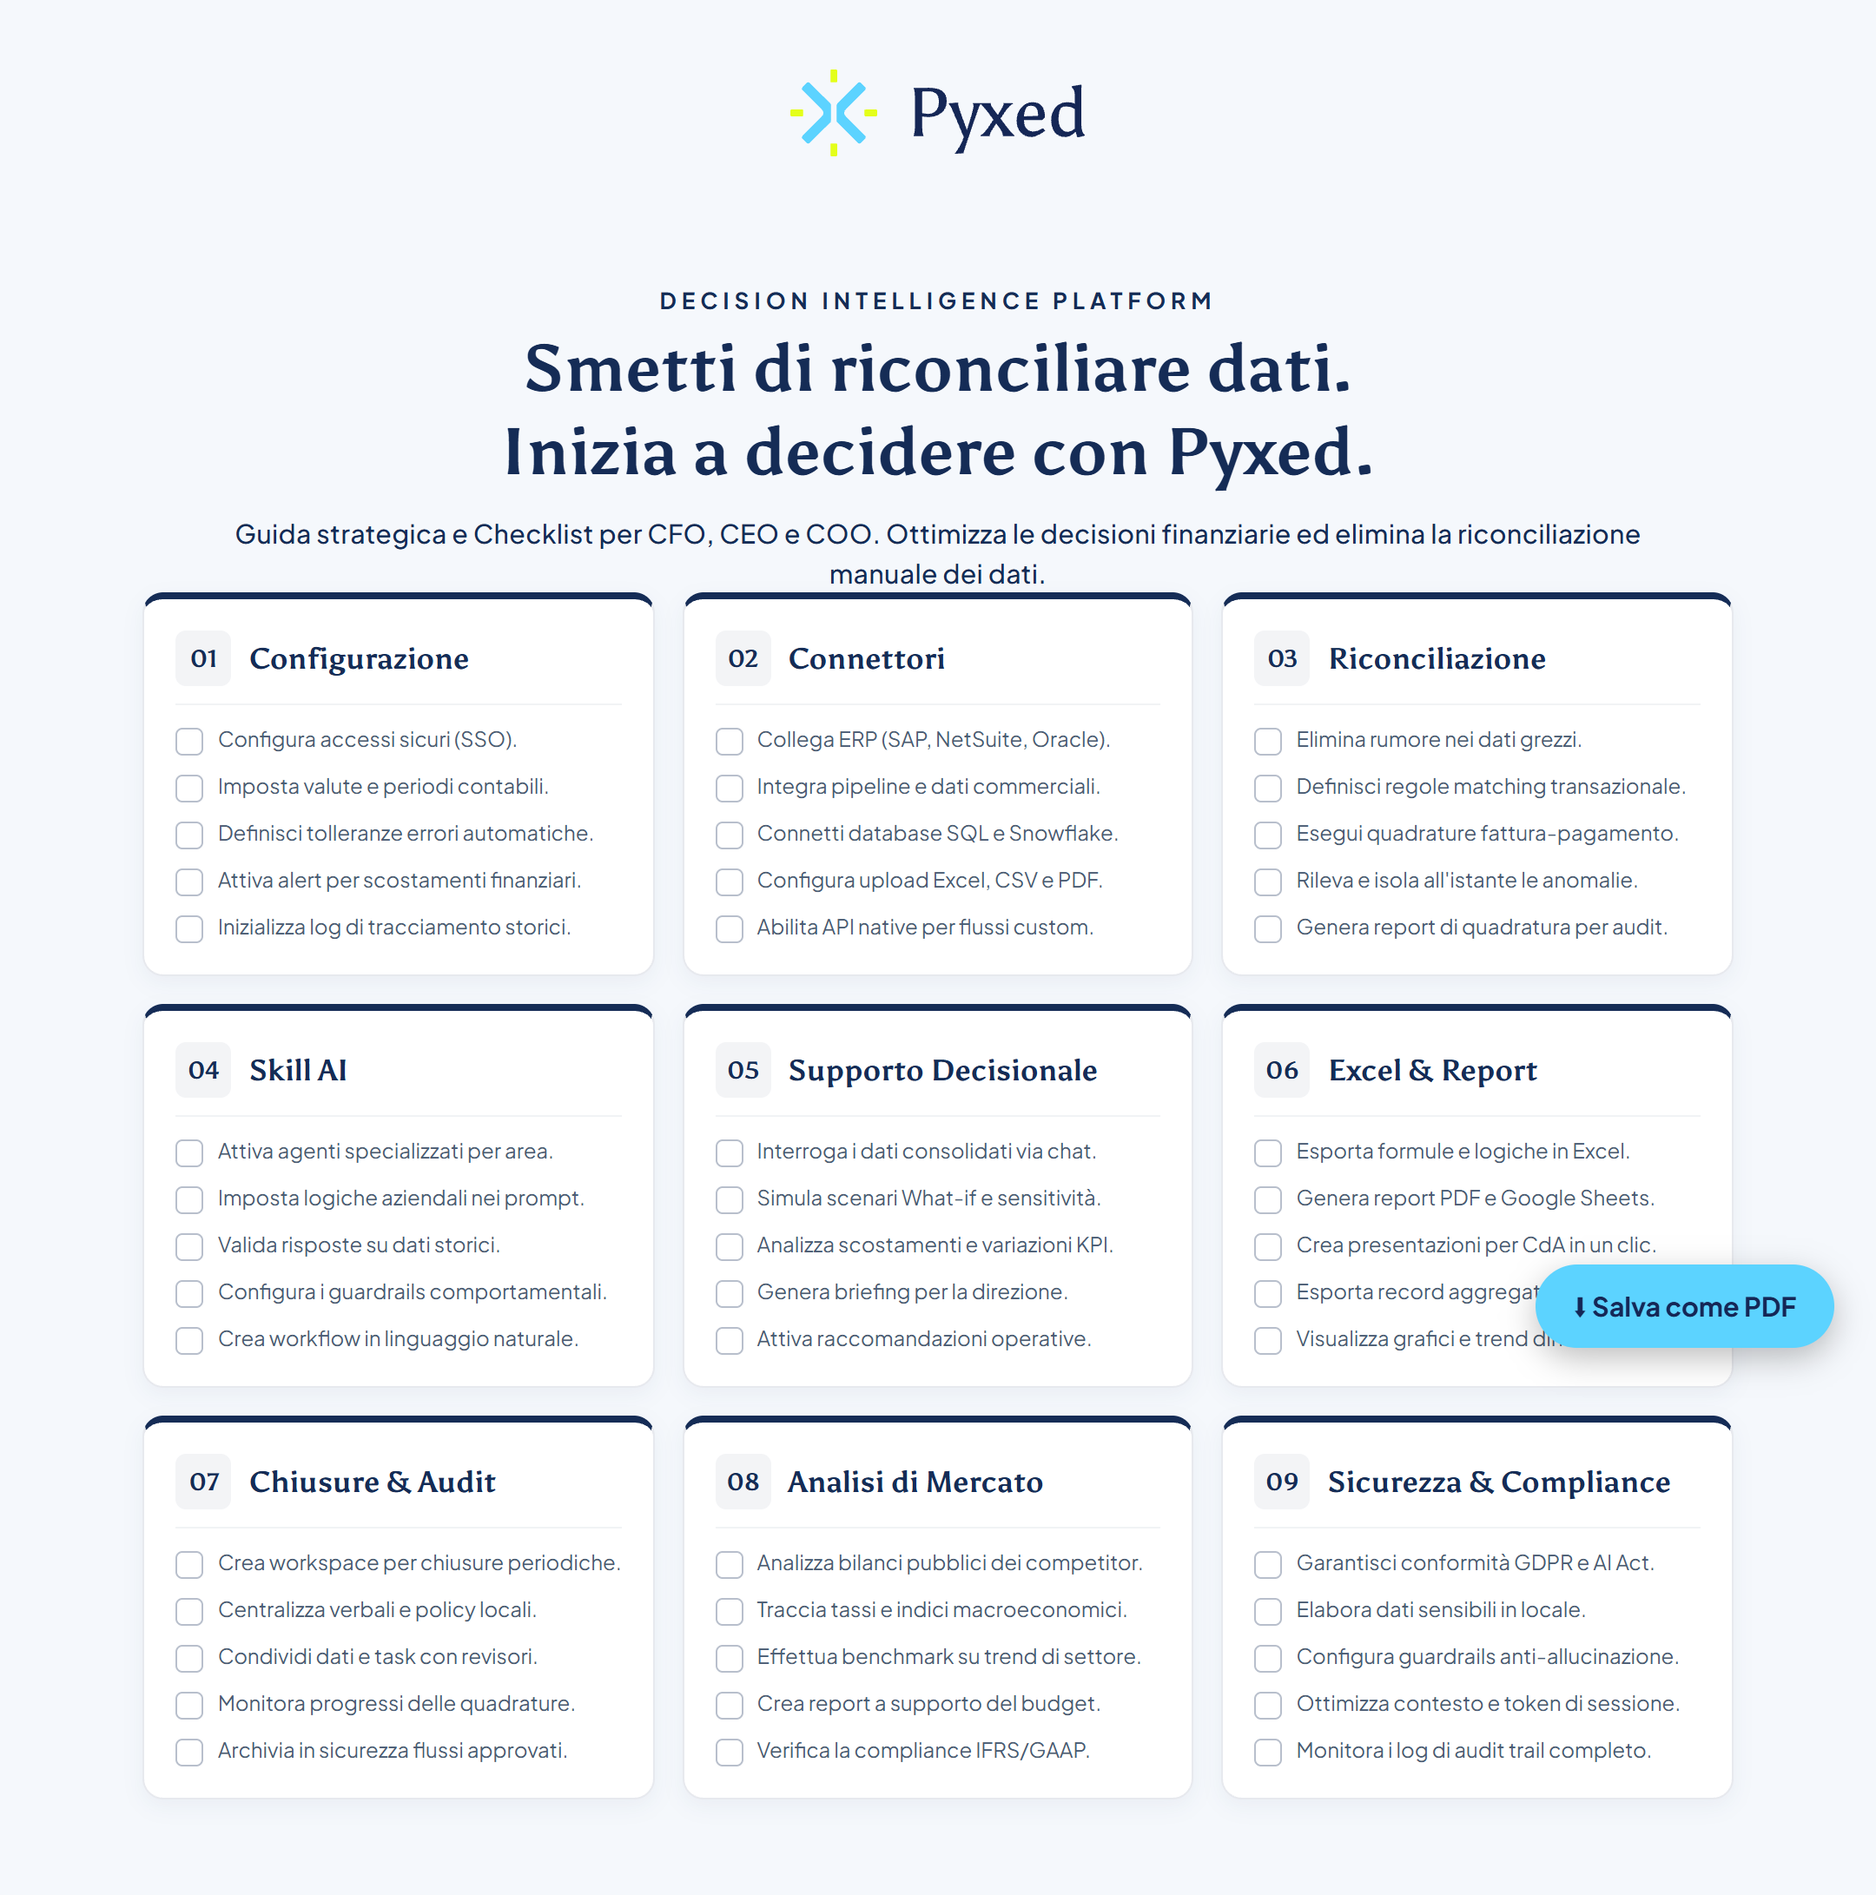
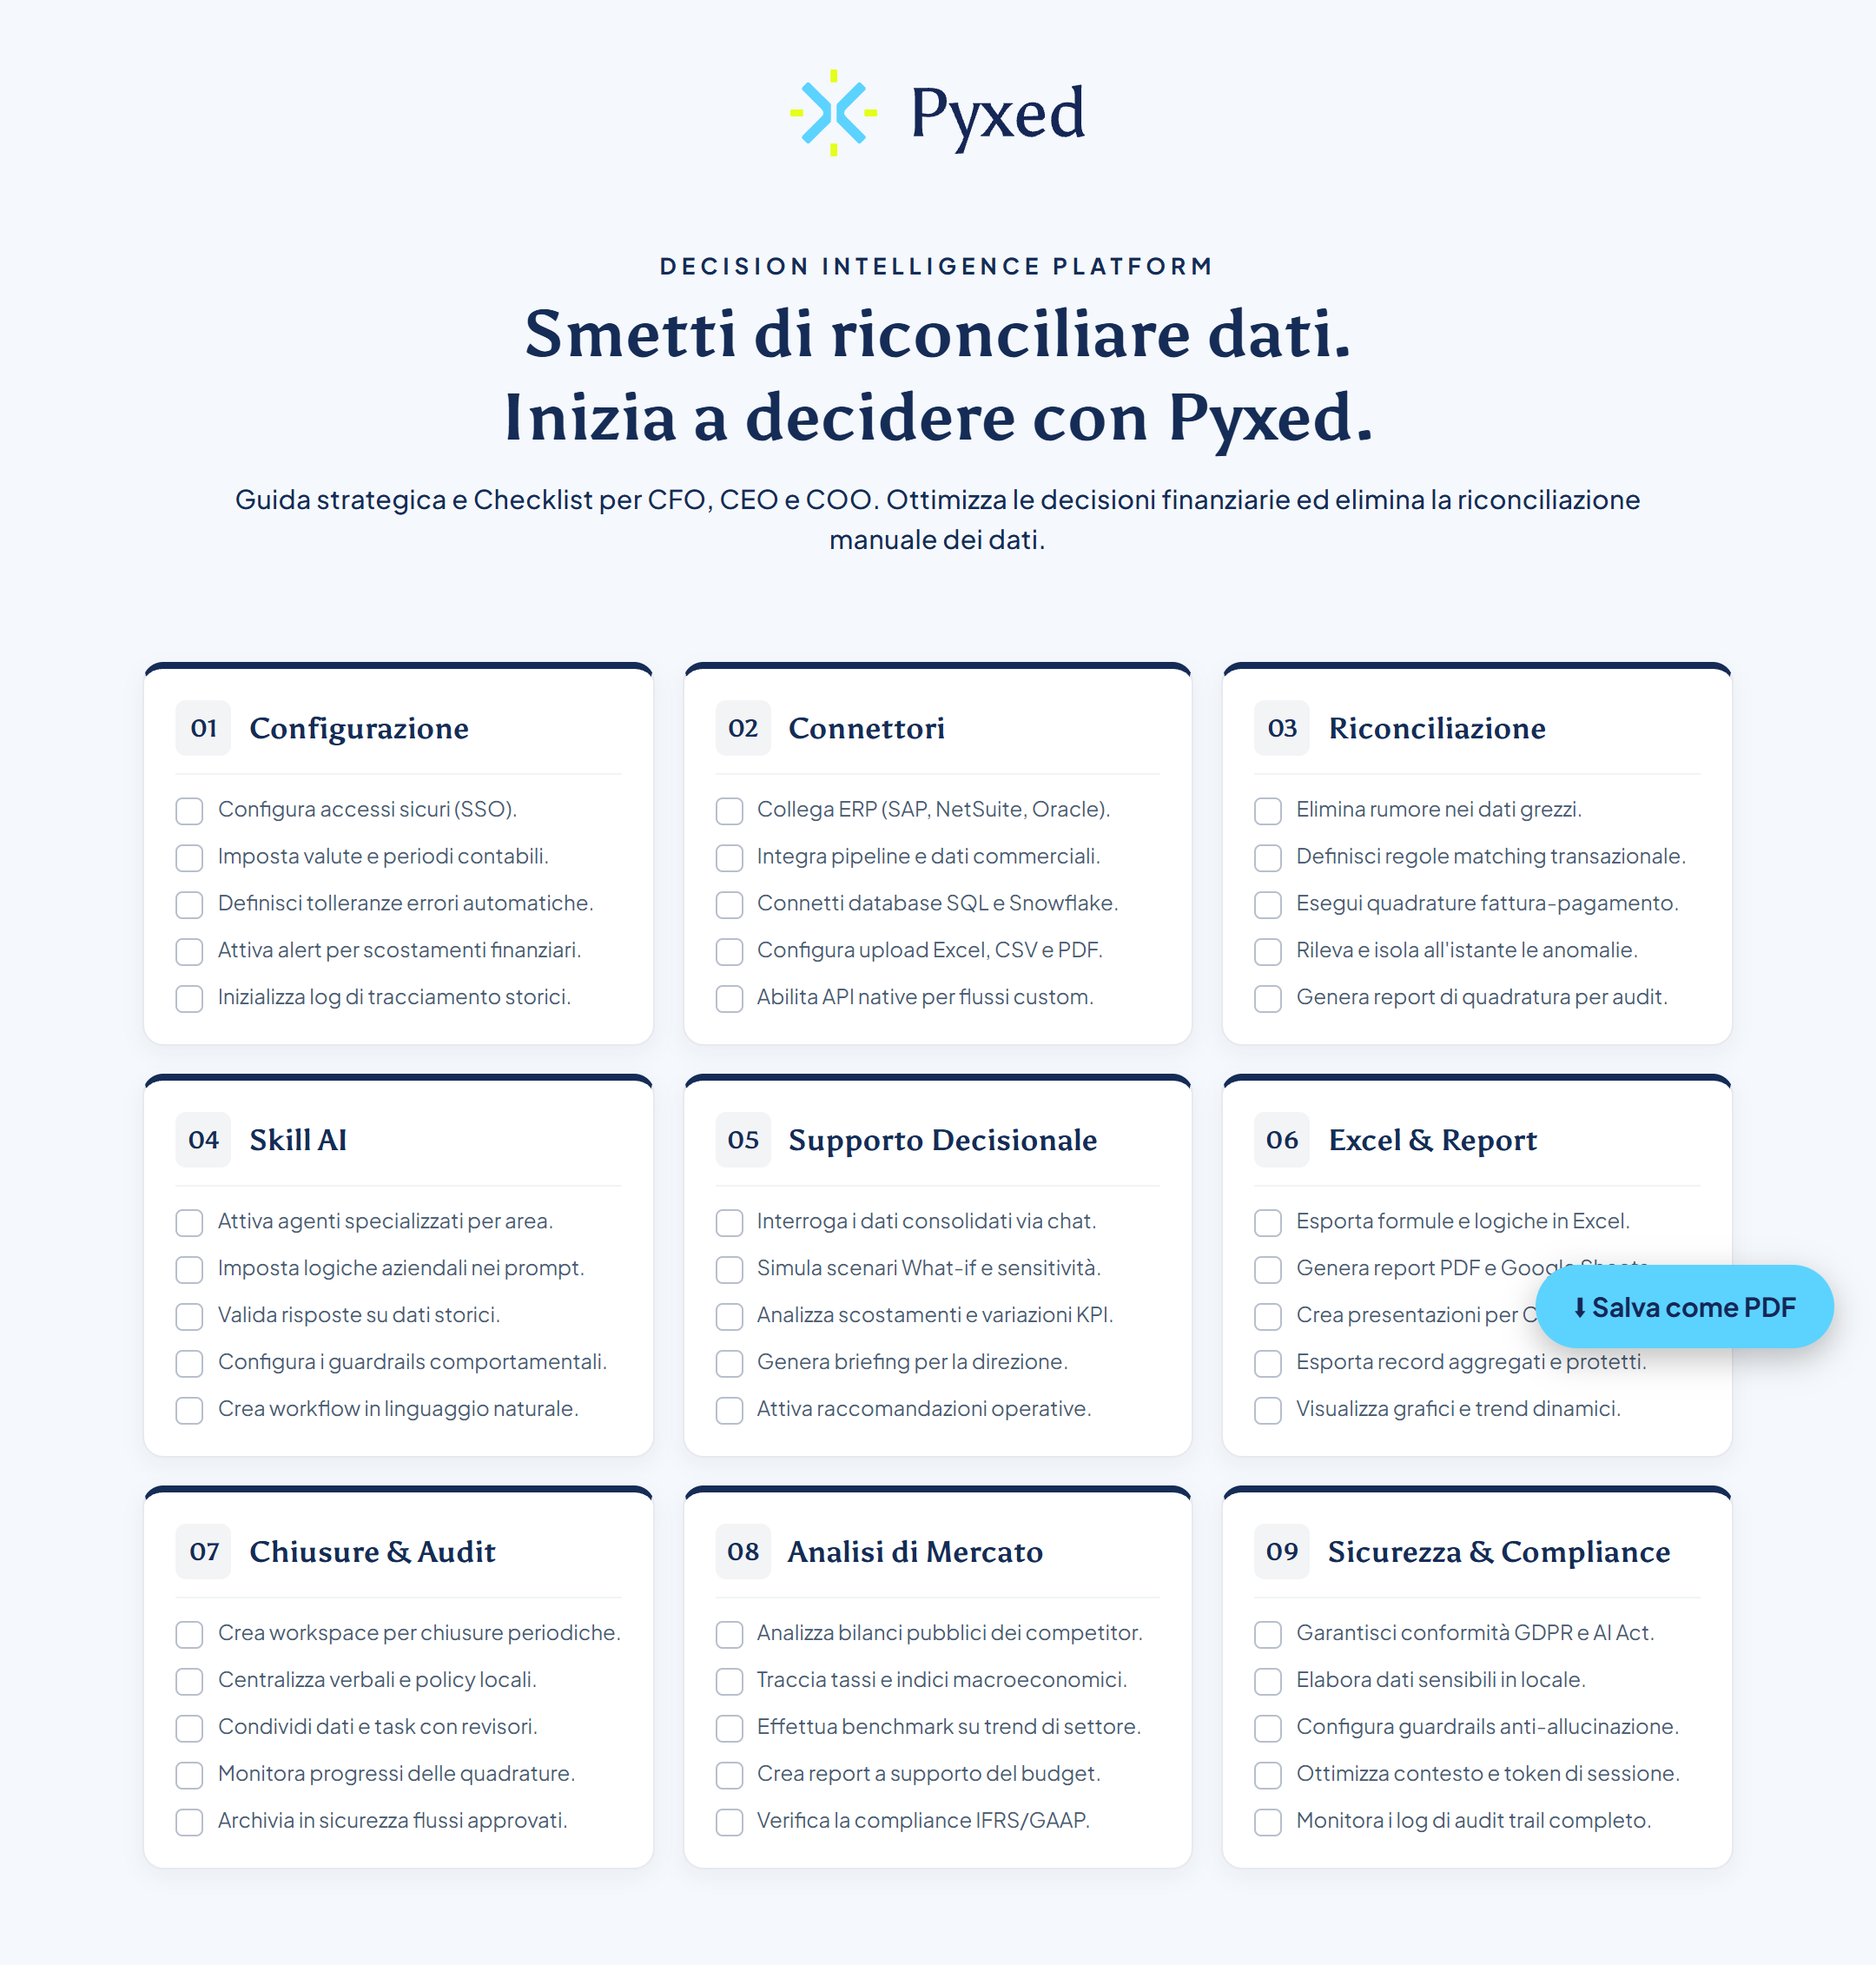
Fix spacing: use aggressive margin and padding to prevent collapse

Changed region(s): [[0.062, 0.1247, 0.9926, 0.9349], [0.4963, 0.0312, 0.5583, 0.0935], [0.4343, 0.0312, 0.4653, 0.0935]]

diff --git a/assets/pyxed_cheat_sheet.html b/assets/pyxed_cheat_sheet.html
@@ -50,7 +50,8 @@
     /* HEADER */
     header {
       text-align: center;
-      margin-bottom: 60px;
+      margin-bottom: 0px;
+      padding-bottom: 40px;
       position: relative;
     }
 
@@ -102,7 +103,7 @@
       font-size: 15px;
       color: var(--navy-accent);
       max-width: 820px;
-      margin: 0 auto;
+      margin: 0 auto 60px;
       font-weight: 500;
       line-height: 1.5;
       letter-spacing: 0.2px;
